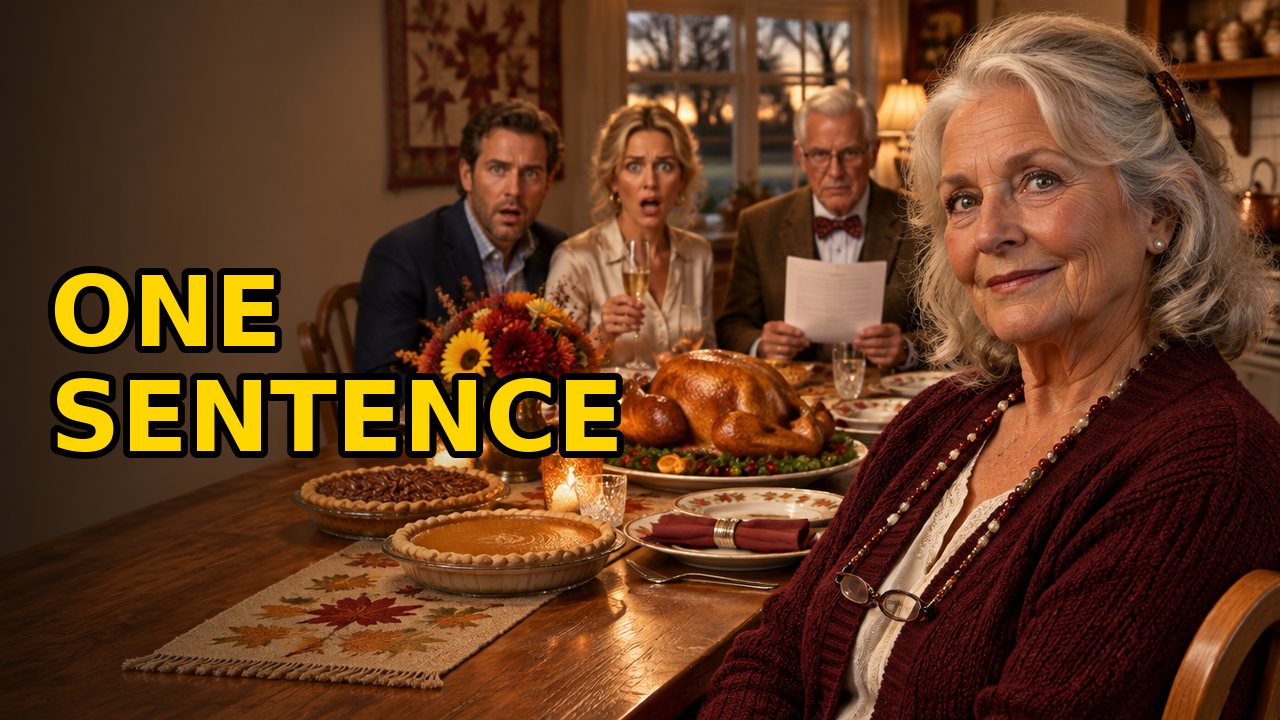
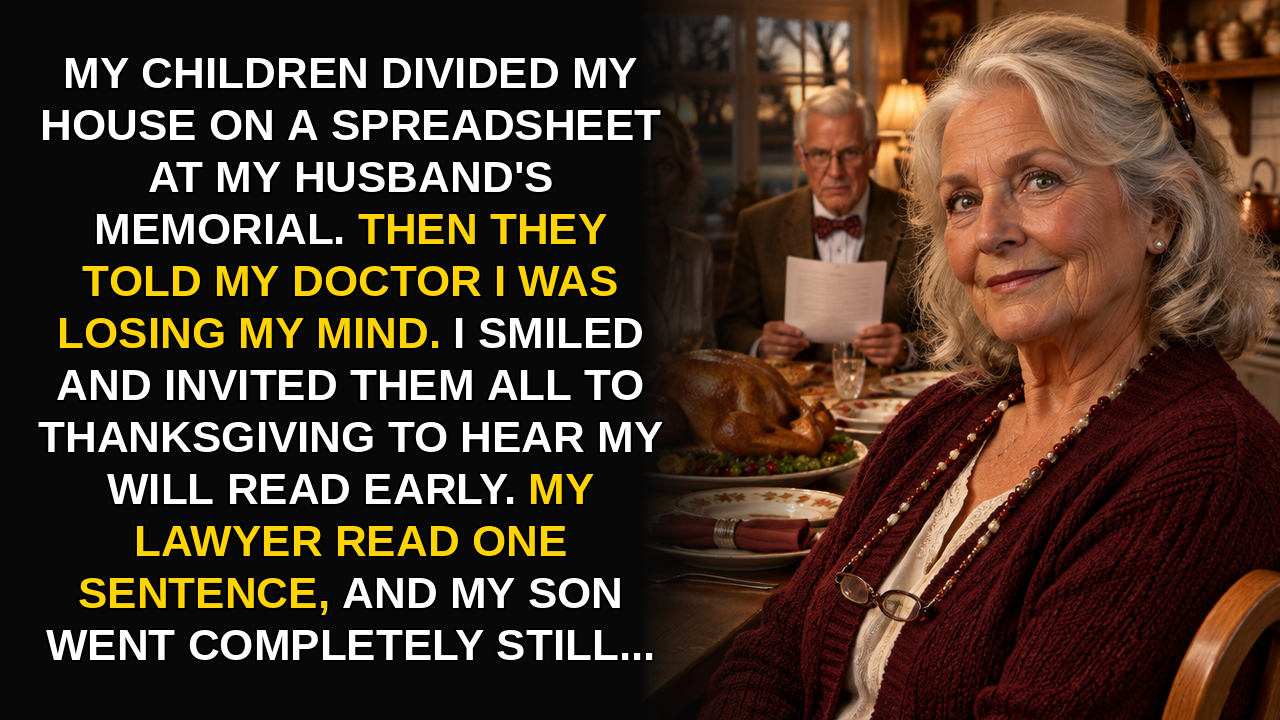
Covers in the competitors' style: dark text panel with a long hook
Claude-Session: https://claude.ai/code/session_01S1DHjV51NGVrQynGTxnuou

diff --git a/tools/cover_panel.py b/tools/cover_panel.py
@@ -1,0 +1,73 @@
+"""Competitor-style cover: dark text panel on the left (white text, yellow highlights, ends with '...'), face on the right.
+usage: cover_panel.py BASE.png OUT.png "plain text [[highlighted text]] more text..." [--flip]
+Use --flip when the person in the base image is on the left. Output 1280x720."""
+import re, sys, argparse, pathlib
+from PIL import Image, ImageDraw, ImageFont, ImageFilter
+
+FONTS = ["/usr/share/fonts/truetype/liberation/LiberationSans-Bold.ttf", "/usr/share/fonts/truetype/dejavu/DejaVuSans-Bold.ttf"]
+W, H = 1280, 720
+YELLOW, WHITE = (255, 212, 0), (255, 255, 255)
+
+ap = argparse.ArgumentParser()
+ap.add_argument("base"); ap.add_argument("out"); ap.add_argument("text")
+ap.add_argument("--flip", action="store_true")
+a = ap.parse_args()
+
+img = Image.open(a.base).convert("RGB")
+if a.flip:
+    img = img.transpose(Image.FLIP_LEFT_RIGHT)
+scale = max(W / img.width, H / img.height)
+img = img.resize((round(img.width * scale), round(img.height * scale)), Image.LANCZOS)
+l, t = (img.width - W) // 2, (img.height - H) // 2
+img = img.crop((l, t, l + W, t + H))
+# shift the picture to the right so the face sits right of the panel
+canvas = Image.new("RGB", (W, H), (0, 0, 0))
+canvas.paste(img.resize((int(W * 0.62), int(H * 0.62 * 1.0))) if False else img, (int(W * 0.0), 0))
+img = canvas
+
+# dark panel: solid up to 50% of the width, smooth fade to 64%
+mask = Image.new("L", (W, H), 0); md = ImageDraw.Draw(mask)
+for x in range(W):
+    p = x / W
+    alpha = 255 if p < 0.50 else max(0, int(255 * (1 - (p - 0.50) / 0.14)))
+    md.line([(x, 0), (x, H)], fill=alpha)
+img = Image.composite(Image.new("RGB", (W, H), (8, 8, 8)), img, mask)
+
+# tokens with colours
+words = []
+for i, part in enumerate(re.split(r"\[\[|\]\]", a.text)):
+    for w in part.split():
+        words.append((w.upper(), YELLOW if i % 2 else WHITE))
+
+d = ImageDraw.Draw(img)
+BOX_L, BOX_R, BOX_T, BOX_B = 36, int(W * 0.52), 28, H - 28
+font_path = next(f for f in FONTS if pathlib.Path(f).exists())
+
+def layout(size):
+    font = ImageFont.truetype(font_path, size)
+    space = d.textlength(" ", font=font)
+    lines, cur, cur_w = [], [], 0
+    for w, c in words:
+        ww = d.textlength(w, font=font)
+        if cur and cur_w + space + ww > BOX_R - BOX_L:
+            lines.append((cur, cur_w)); cur, cur_w = [], 0
+        cur_w += (space if cur else 0) + ww; cur.append((w, c, ww))
+    lines.append((cur, cur_w))
+    return font, space, lines
+
+size = 80
+while size > 22:
+    font, space, lines = layout(size)
+    if len(lines) * size * 1.18 <= BOX_B - BOX_T:
+        break
+    size -= 1
+lh = size * 1.18
+y = BOX_T + (BOX_B - BOX_T - lh * len(lines)) / 2
+for cur, cur_w in lines:
+    x = BOX_L + (BOX_R - BOX_L - cur_w) / 2      # centred like the competitors
+    for w, c, ww in cur:
+        d.text((x, y), w, font=font, fill=c, stroke_width=max(1, size // 22), stroke_fill=(0, 0, 0))
+        x += ww + space
+    y += lh
+img.save(a.out)
+print("cover saved", a.out, "font", size, "lines", len(lines))

diff --git a/channel/titles-and-covers.md b/channel/titles-and-covers.md
@@ -7,7 +7,11 @@
 - My Stepdaughter Changed the Locks During My Husband's Funeral. She Forgot About the Safe Deposit Box.
 Правила: конкретика (кто, где, что сделал), без «A story that touches the soul», без «true story», без CAPS целиком (можно 1–2 слова).
 
-## Обложка 1280×720
+## Обложка 1280×720 — стиль конкурентов (ОСНОВНОЙ, утверждён владельцем)
+Слева тёмная панель (половина кадра) с **крупным текстом на 40–50 слов**: пересказ завязки от первого лица, белый текст с жёлтыми выделениями ключевых фраз, обрыв на «...» (крючок). Справа лицо героини. Инструмент: `tools/cover_panel.py BASE.png OUT.png "текст [[жёлтый]] текст..." [--flip]` (флаг `--flip`, если героиня на картинке слева). Текст — только то, что реально есть в истории, без выдумок. Картинки в Flow/Higgsfield: героиня крупно **справа**, улыбка или спокойный взгляд, без текста на картинке.
+Старый стиль (короткая надпись 2–5 слов, `tools/cover_text.py`) владельцу не понравился: «выглядит ужасно, не цепляет».
+
+## Обложка 1280×720 — старый стиль (не использовать)
 - Фотореалистичная сцена: героиня 60–72 лет крупно, спокойное «знающее» лицо или сдержанные слёзы; злодей(и) на заднем плане — самодовольные, растерянные или в шоке.
 - Обстановка из сюжета: кухня, крыльцо, праздничный стол, офис адвоката, церковь.
 - Тёплый свет, высокая контрастность, лица крупно — обложку смотрят на телефоне и TV.

diff --git a/.claude/skills/make-cover/SKILL.md b/.claude/skills/make-cover/SKILL.md
@@ -12,9 +12,9 @@ description: Write Google Flow prompts for the episode cover, then turn the owne
 
 **Часть 1 — промпты.** Создай `episodes/EXXX/cover/prompt.md`:
 - 2 разные сцены по шаблону из `titles-and-covers.md` (внешность героини и злодеев — строго из `bible.md`), у каждой указана свободная сторона для текста;
-- 3 варианта текста на обложку (2–5 слов, дополняют название, а не повторяют).
+- 3 варианта текста на обложку: 40–50 слов от первого лица, пересказ завязки, 1–2 жёлтые выделенные фразы, обрыв на «...»; только факты из истории.
 Отправь владельцу промпты и попроси: сгенерировать в Google Flow по 2 картинки на сцену и загрузить лучшие в `episodes/EXXX/cover/flow/`.
 
 **Часть 2 — готовые обложки** (когда картинки появились):
-`.venv/bin/python tools/cover_text.py episodes/EXXX/cover/flow/IMG.png episodes/EXXX/cover/cover_A.png "LINE ONE|LINE TWO" --side left --color yellow`
+`.venv/bin/python tools/cover_panel.py episodes/EXXX/cover/flow/IMG.png episodes/EXXX/cover/cover_A.png "текст [[жёлтый]] текст..."` (стиль конкурентов — см. `channel/titles-and-covers.md`; `--flip`, если героиня слева)
 Сделай 3 варианта (A, B, C): разные картинки и/или тексты. Посмотри каждую обложку (Read) — лица не закрыты текстом, текст читается на маленьком размере.
